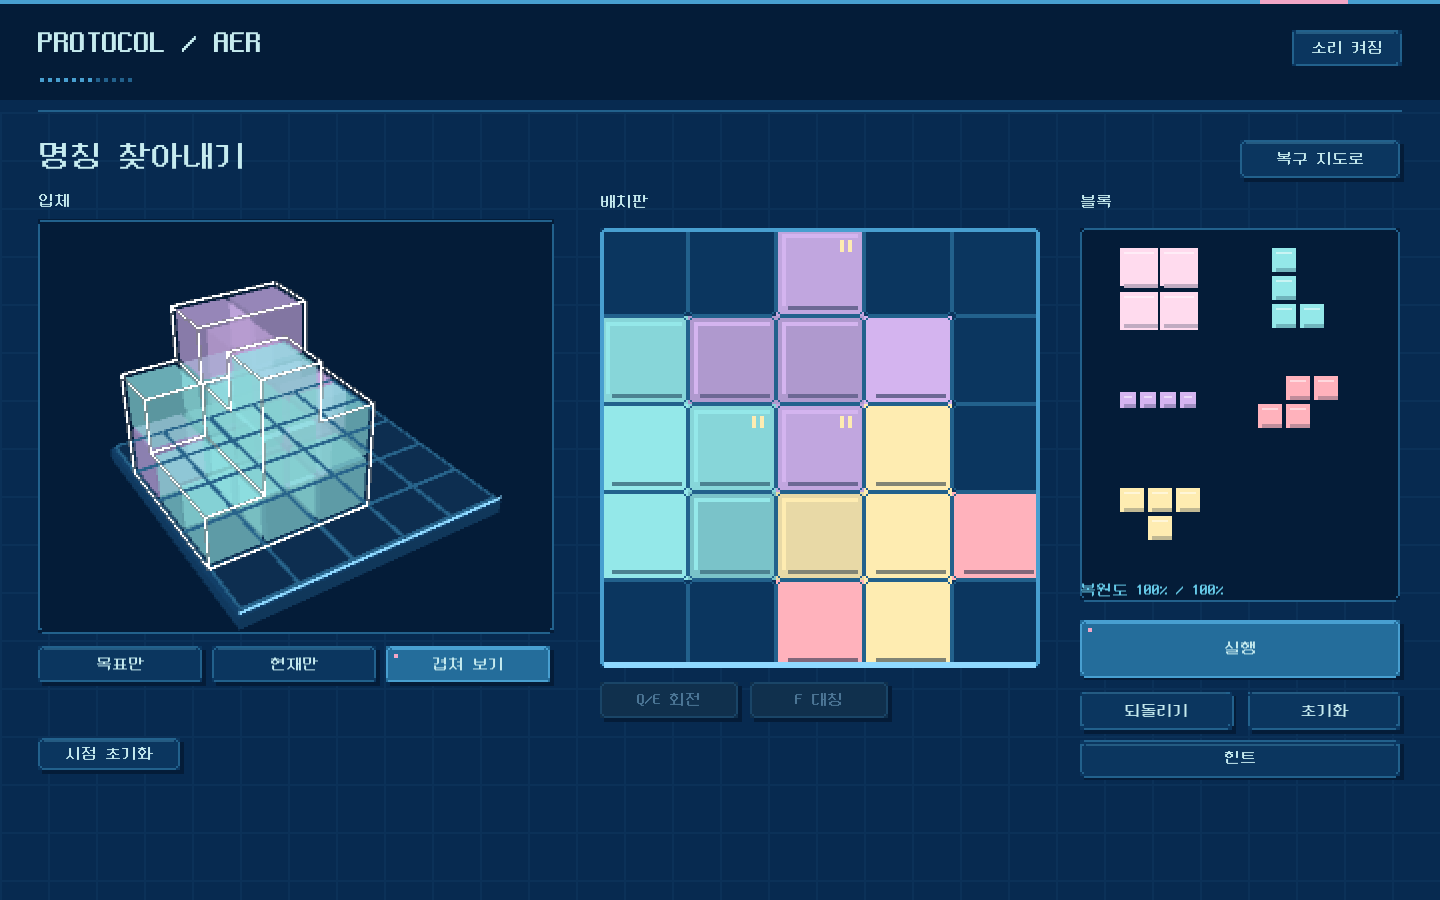
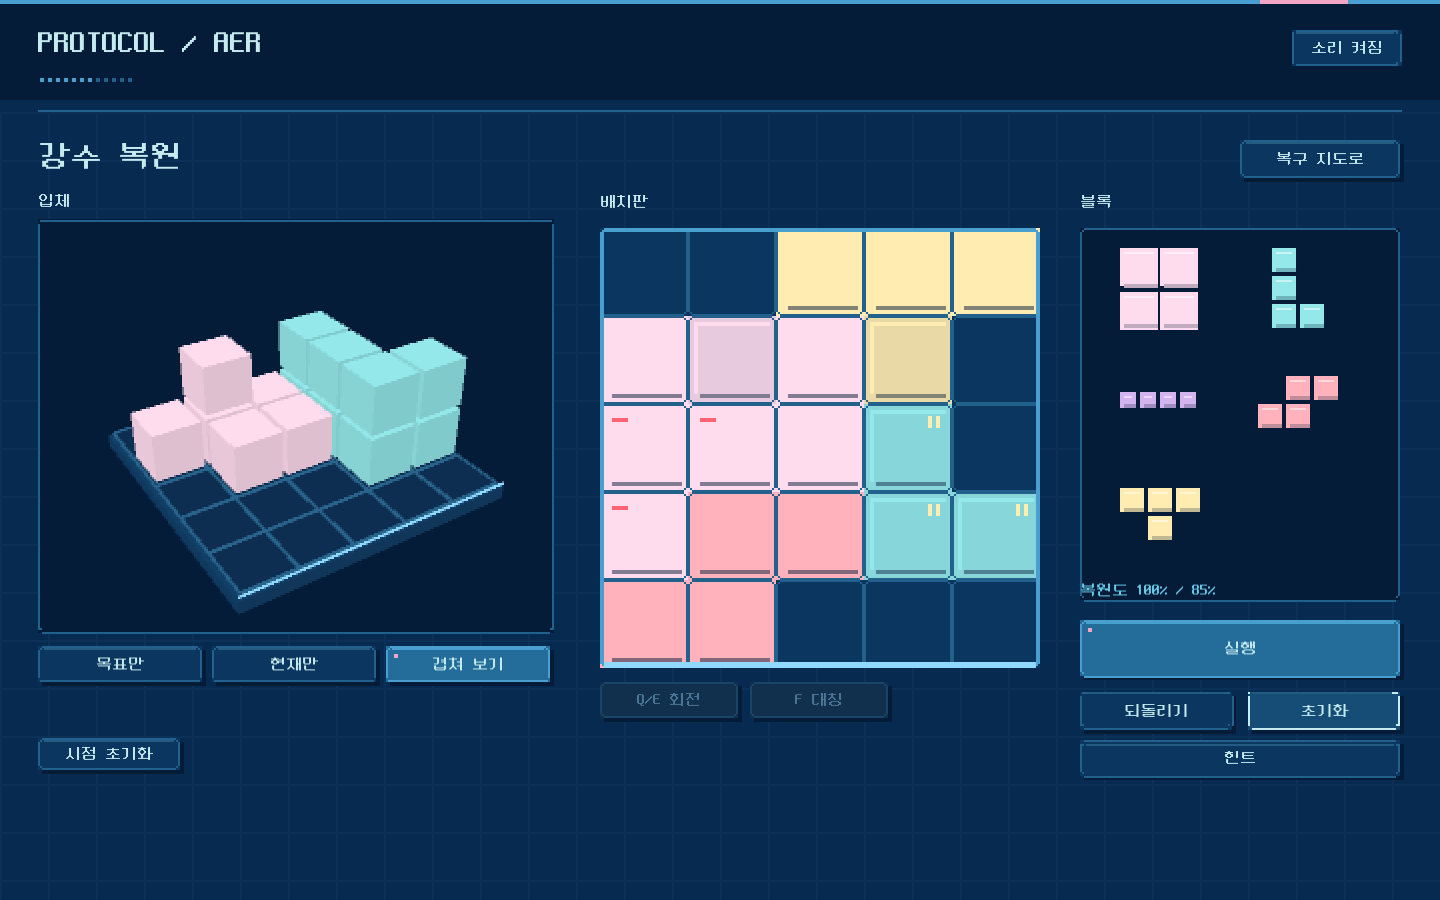
Ease S and T learning stages and simplify final weather

Changed region(s): [[0.4062, 0.2489, 0.7188, 0.7467], [0.0625, 0.3111, 0.375, 0.7156], [0.0312, 0.1556, 0.1875, 0.1867]]

diff --git a/Assets/Editor/AerBuilder.cs b/Assets/Editor/AerBuilder.cs
@@ -65,7 +65,7 @@ public static class AerBuilder
             if(stage.Complete(missing)||stage.RequiredMinoUsed(missing))throw new Exception("New mino requirement bypassed");
         }
         var wind=AerStages.All[10];int windVolume=0;foreach(int height in wind.Target)windVolume+=height;
-        if(windVolume!=14||windVolume%4==0||wind.Allows(0))throw new Exception("Wind target must intrinsically require S: positive-only volume is a multiple of four");
+        if(windVolume!=6||windVolume%4==0||wind.Allows(0))throw new Exception("Wind target must intrinsically require S: positive-only volume is a multiple of four");
         var oldWindExploit=new EveningBoard();
         foreach(var step in new[]{new AerStage.Step(3,0,0,2),new AerStage.Step(4,1,1),new AerStage.Step(3,1,2,2),new AerStage.Step(3,2,2,2)})oldWindExploit.TryPlace(step.Action,step.Cells(),out _);
         if(wind.Differences(oldWindExploit)==0||wind.Complete(oldWindExploit))throw new Exception("Old S-free wind reconstruction still accepted");
@@ -74,7 +74,7 @@ public static class AerBuilder
         var repeatAdvice=AerHints.Next(repeatStage,repeated);
         if(repeatAdvice.Type!=AerHints.Kind.Place||repeatAdvice.Step!=1)throw new Exception("Hints must count duplicate placements separately");
         if(AerStages.All.Length!=13||AerStages.BuildingStages.Length!=8||!AerStages.All[7].Weather||!AerStages.All[12].Weather)throw new Exception("Progression layout changed");
-        int[] nameSteps={3,4,3,4,4,5,6,7};
+        int[] nameSteps={3,4,3,4,4,5,4,4};
         for(int i=0;i<8;i++)
         {
             var stage=AerStages.All[AerStages.BuildingStages[i]];int max=0;foreach(int h in stage.Target)max=Math.Max(max,h);
@@ -84,7 +84,7 @@ public static class AerBuilder
         foreach(int index in new[]{7,12})
         {
             int max=0;foreach(int h in AerStages.All[index].Target)max=Math.Max(max,h);
-            if(max!=4)throw new Exception("Weather milestones should combine four height levels");
+            if(max!=(index==7?4:2))throw new Exception("Weather height envelope changed");
         }
         foreach(int action in new[]{0,1,2,3,4})
         {
@@ -114,12 +114,26 @@ public static class AerBuilder
         forward.TryPlace(1,new AerStage.Step(1,0,1).Cells(),out _);forward.TryPlace(0,new AerStage.Step(0,1,1).Cells(),out _);
         if(forward.OutputOf(forward.Pieces[0])!=-2||forward.OutputOf(forward.Pieces[3])!=2)throw new Exception("Duplicate modifiers must apply only once");
         foreach(var voxel in forward.Voxels())if(voxel.Action!=4)throw new Exception("Voxel source color lost");
-        foreach(int index in new[]{11,12})
+        // Learning stages isolate the new effect; the finale combines two
+        // spatially separate effects without forcing amplified subtraction.
+        foreach(int index in new[]{10,11,12})
         {
-            var board=new EveningBoard();foreach(var step in AerStages.All[index].Solution)board.TryPlace(step.Action,step.Cells(),out _);
-            bool negativeDouble=false,positiveDouble=false;
-            foreach(var piece in board.Pieces){negativeDouble|=board.OutputOf(piece)==-2;positiveDouble|=board.OutputOf(piece)==2;}
-            if(!negativeDouble||!positiveDouble)throw new Exception("Late stages must demonstrate both amplified positive and inverted minos");
+            var stage=AerStages.All[index];var board=new EveningBoard();
+            foreach(var step in stage.Solution)board.TryPlace(step.Action,step.Cells(),out _);
+            int invertedCount=0,amplifiedCount=0;
+            foreach(var piece in board.Pieces)
+            {
+                int output=board.OutputOf(piece);
+                if(output==-2)throw new Exception("Introductory late solutions must not require combined S/T");
+                if(output<0)invertedCount++;if(output==2)amplifiedCount++;
+            }
+            if(invertedCount!=(index==11?0:1)||amplifiedCount!=(index==10?0:1))throw new Exception("Each new effect must have one readable subject");
+            if(stage.Supply!=(index==12?6:4))throw new Exception("Late solution complexity increased");
+            foreach(int action in index==12?new[]{1,0}:new[]{stage.RequiredAction})
+            {
+                var without=new EveningBoard();foreach(var step in stage.Solution)if(step.Action!=action)without.TryPlace(step.Action,step.Cells(),out _);
+                if(stage.Complete(without))throw new Exception("Removing a taught effect must not solve the target");
+            }
         }
         var swatches=new[]{"FEECB1","FFB2BC","D4B4EF","94E8E9","FFDBEE"};
         for(int i=0;i<5;i++)if(ColorUtility.ToHtmlStringRGB(EveningBoard.Colors[i])!=swatches[i])throw new Exception("Palette mismatch");

diff --git a/Assets/Scripts/AerStages.cs b/Assets/Scripts/AerStages.cs
@@ -66,13 +66,15 @@ public static class AerStages
         new AerStage("일조 복원","WEATHER-01","재현도 85% 이상",M(4,1,1),M(4,2,1),M(3,0,1),M(3,2,0,1),M(3,1,2,1),M(4,2,2)),
         new AerStage("기록 보관소","NAME-05","",M(4,1,1),M(3,0,0),M(2,0,2),M(4,2,2)),
         new AerStage("급수 관리소","NAME-06","",M(4,2,2),M(3,0,1),M(3,2,0,1),M(2,1,1,1),M(2,0,2)),
-        // 14 voxels cannot be made by positive-only four-cell minos. Here S
-        // reverses one whole O, including cells outside S's own footprint.
-        new AerStage("바람길 제어소","NAME-07","",M(4,0,1),M(3,1,2,1),M(2,3,1,1),M(4,0,2),M(3,0,2,3),M(1,1,0)),
-        // Includes +1, +2 and -2 ordinary minos: S and T combine without chaining.
-        new AerStage("환경 제어실","NAME-08","",M(4,2,3),M(3,1,1),M(2,2,0,1),M(2,0,1),M(3,0,1),M(1,2,3),M(0,2,2,1)),
-        // Weather milestones combine more regions/heights than the preceding names.
-        new AerStage("강수 복원","WEATHER-02","복원도 85% 이상",M(4,2,0),M(3,0,3,3),M(2,0,0,1),M(4,3,0),M(3,0,2,1),M(2,1,3),M(1,3,2,1),M(0,0,2))
+        // Introduce one operator at a time: two positive O pieces, one
+        // inverted O and S carve a small notch. Six voxels require subtraction.
+        new AerStage("바람길 제어소","NAME-07","",M(4,0,1),M(4,1,1),M(4,0,2),M(1,0,3)),
+        // T alone doubles one O. The other two O pieces form a readable step;
+        // simultaneous S/T inversion is available but never required here.
+        new AerStage("환경 제어실","NAME-08","",M(4,0,1),M(4,2,1),M(4,1,2),M(0,0,0)),
+        // Reuse the S notch and add a separately amplified L. Each operator
+        // affects just one ordinary mino; no -2 combination or rotation needed.
+        new AerStage("강수 복원","WEATHER-02","복원도 85% 이상",M(4,0,1),M(4,1,1),M(4,0,2),M(3,3,1),M(1,0,3),M(0,2,0))
     };
     public static readonly int[] BuildingStages={3,4,5,6,8,9,10,11};
     static AerStage.Step M(int action,int x,int y,int turns=0)=>new AerStage.Step(action,x,y,turns);

diff --git a/Assets/Scripts/ProtocolAer.cs b/Assets/Scripts/ProtocolAer.cs
@@ -668,7 +668,7 @@ public sealed class ProtocolAer:MonoBehaviour
                 if(hint<0||hintPieceId>=0||held!=Stage.Solution[hint].Action)throw new Exception("Hint failed to identify next missing mino");
                 int stepIndex=hint;var expected=Stage.Solution[hint].Cells();
                 RequestHint();if(hint!=stepIndex)throw new Exception("Repeated hint clicks must not skip an unplaced step");
-                if(n==12&&(hint==6||hint==7))yield return Shot(directory,"final-hint-step-"+(hint+1));
+                if(n==12&&(hint==4||hint==5))yield return Shot(directory,"final-hint-step-"+(hint+1));
                 onGrid=true;hover=hintAnchor;RefreshPlacementPreview();
                 if(!AerHints.SameCells(Candidate(),expected))throw new Exception("Hint orientation/anchor does not match the highlighted footprint");
                 int count=board.Pieces.Count;HandlePuzzleClick(Grid.position+new Vector2((hintAnchor.x+.5f)*88,(hintAnchor.y+.5f)*88));

diff --git a/docs/Development.md b/docs/Development.md
@@ -10,7 +10,7 @@ Targets are generated from valid example solutions. Names require exact height m
 
 Name targets add offset overlaps, turned L shapes and crossing I shapes while introducing one new effect at a time. Their example solutions use 3 / 4 / 3 / 4 / 4 / 5 / 6 / 7 placements, with at most three height levels. Weather targets combine wider footprints and four height levels (6 / 8 example placements). These are design guidelines, not placement limits or a claim about the shortest possible solution. Actual perceived difficulty still benefits from player testing. The three tutorial targets remain unchanged.
 
-The reworked Windway target contains 14 voxels, so O/L/I alone cannot reproduce it: positive-only volume is a multiple of four. The eighth name target has 22 voxels and demonstrates both +2 and -2 ordinary minos; the final weather target has 27 voxels across all five rows/columns, with height up to four. Tutorials, names 1-6 and the first weather target are unchanged.
+The eased Windway target contains 6 voxels and uses four unrotated O/S pieces; O/L/I alone cannot reproduce its non-multiple-of-four volume. The eighth name target uses four unrotated O/T pieces, teaching amplification without subtraction. The finale uses six unrotated pieces: S reverses one O and T amplifies a separate L. Targets have maximum heights 2, 3 and 2 respectively; no late reference solution requires -2 combinations. Tutorials, names 1-6 and the first weather target are unchanged.
 
 ## Controls
 
